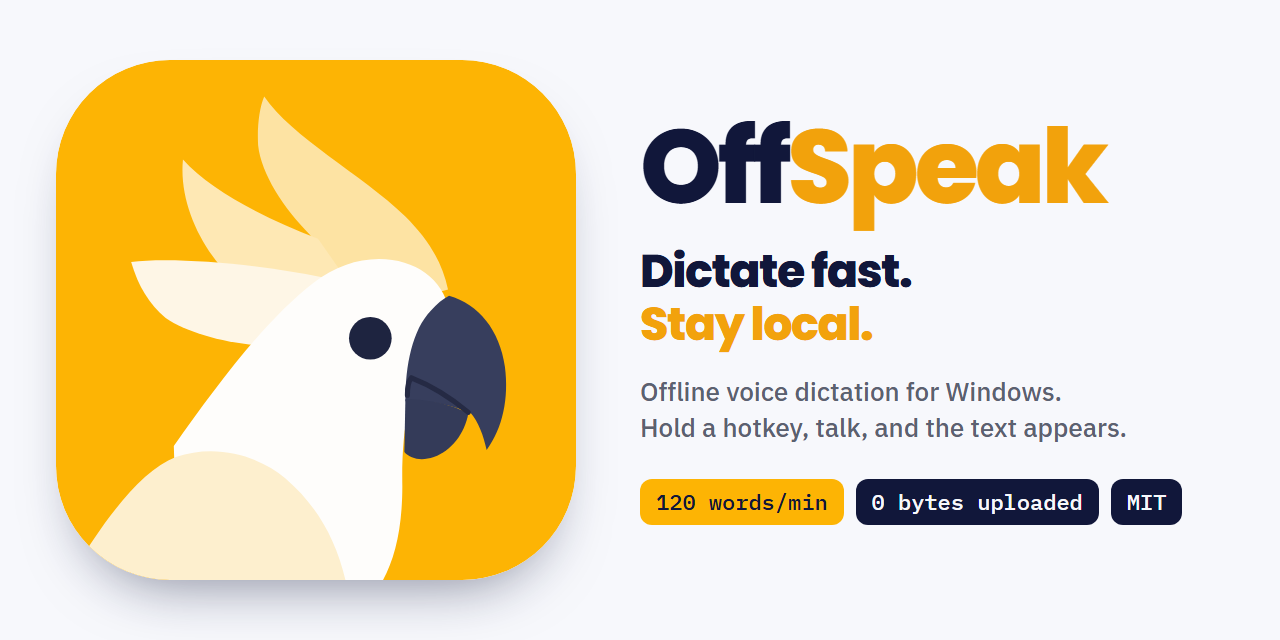
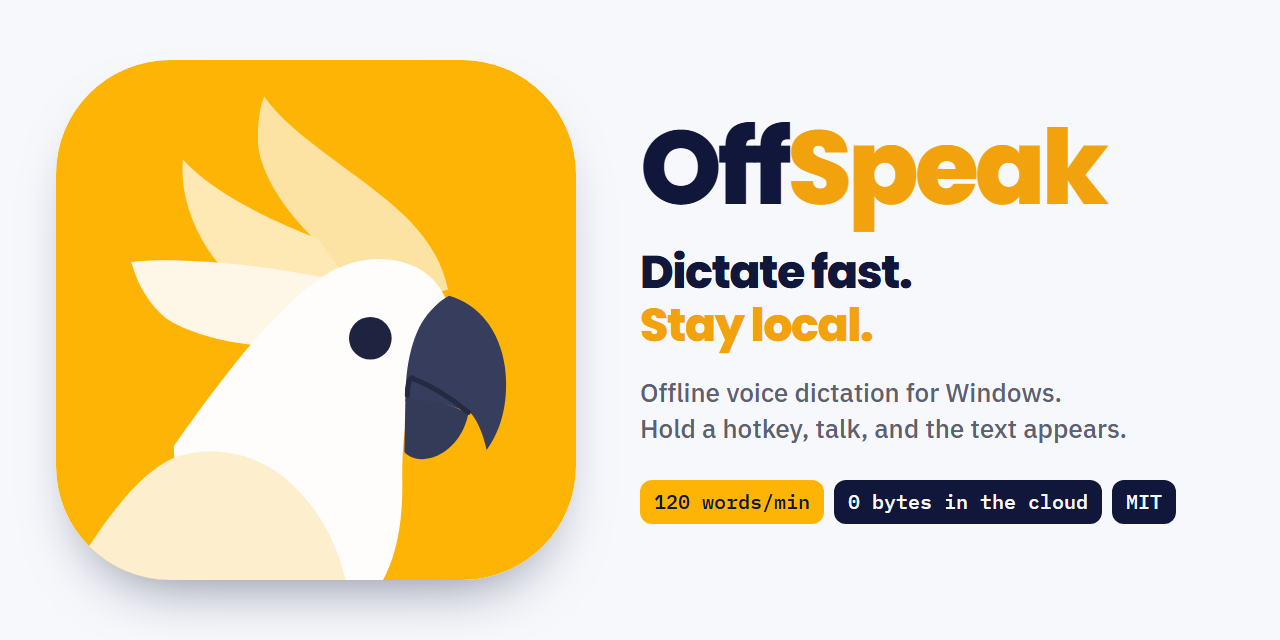
Say 0 bytes in the cloud on the website and the social preview

diff --git a/website/index.html b/website/index.html
@@ -361,7 +361,7 @@ footer .quote { font-family: var(--display); font-weight: 600; font-size: var(--
       <div class="fact"><strong>120 words/min</strong><span>from key press to inserted text, measured over 115 real dictations. Typing averages around 40.</span></div>
       <div class="fact"><strong>0.3 s</strong><span>to transcribe a typical sentence on an ordinary laptop CPU, with NVIDIA Parakeet</span></div>
       <div class="fact"><strong>25 languages</strong><span>European languages including English, German, French and Italian, with punctuation</span></div>
-      <div class="fact"><strong>0 bytes</strong><span>of audio or text leave your computer while you dictate</span></div>
+      <div class="fact"><strong>0 bytes</strong><span>in the cloud. Audio and text never leave your computer while you dictate.</span></div>
     </div>
   </div>
 
